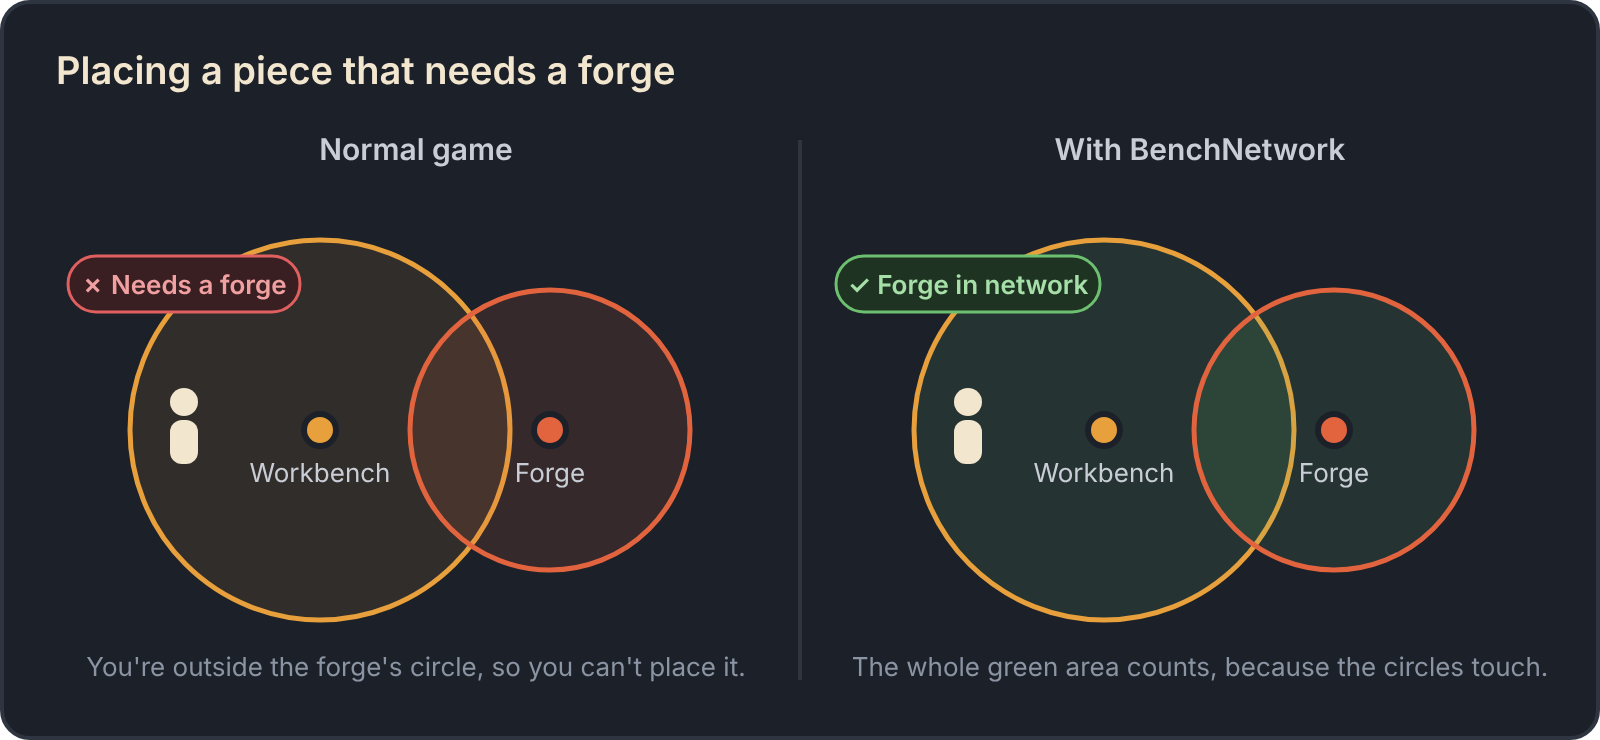
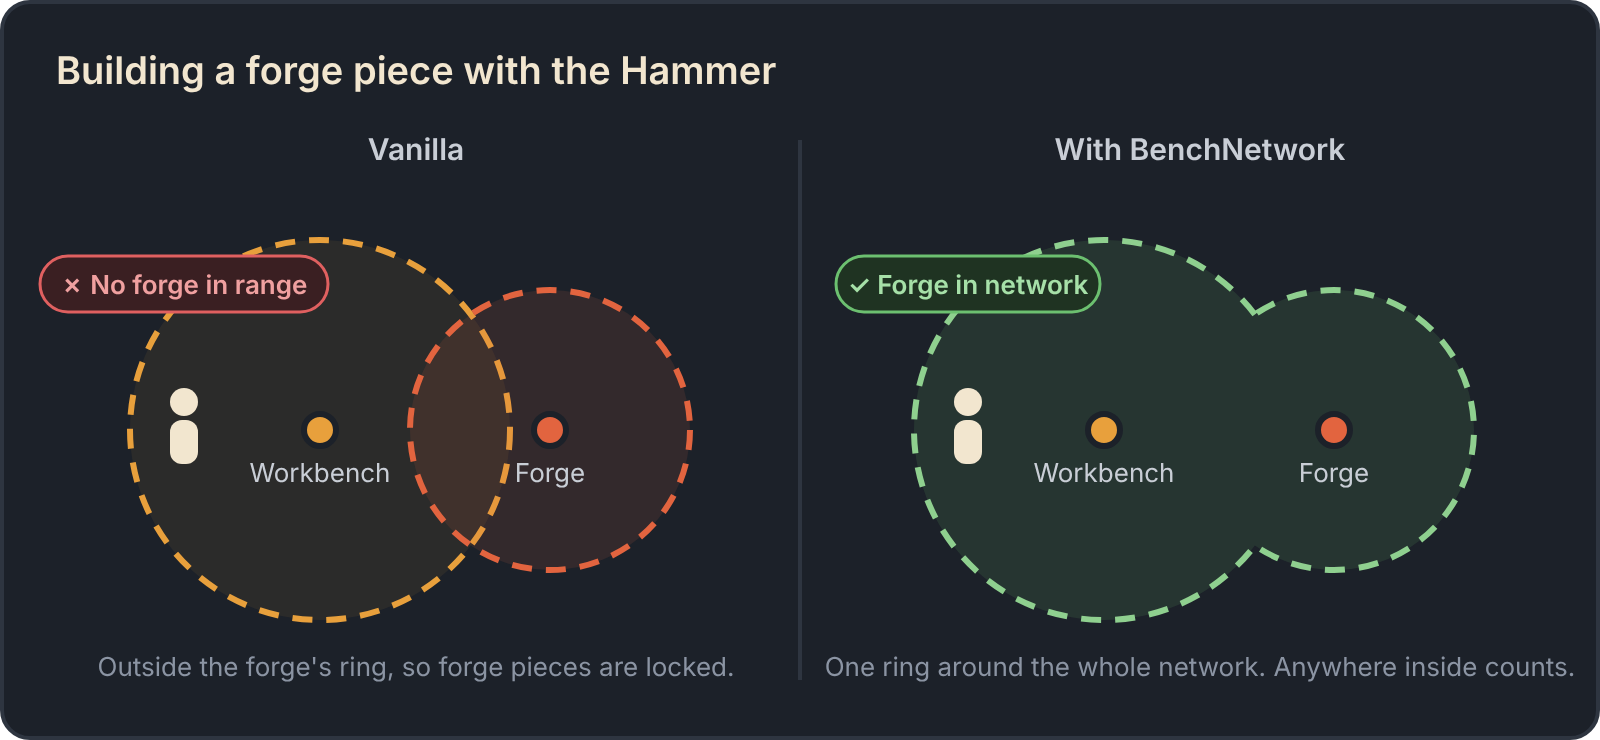
Draft: friendlier README in Valheim's own terms
Rewrites the README player-to-player, using the game's wording (build
radius, Hammer, deconstruct, station level, Repair, spawn protection).
Install now leads with Gale/Hexium; zip and manual install move to a
fold-out. Settings are split into personal and server-controlled, with
the full table folded away. The building diagram now shows the outline
view: one ring around the whole network.

Draft for review; not yet approved for main.

Claude-Session: https://claude.ai/code/session_01RzBXjsieViGYzfu72oKZhi

diff --git a/README.md b/README.md
@@ -4,155 +4,162 @@
 
 <p align="center">
   Link your crafting stations together in Valheim.<br>
-  Build anywhere in your base without putting a spare forge in every corner.
+  Stop carrying a forge to every corner of your longhouse.
 </p>
 
-<p align="center"><a href="https://github.com/m0zzy/Bench-Network/releases/latest"><b>Download the latest release</b></a></p>
+<p align="center">
+  <a href="https://valheim.hexium.gg/mods/M0zzy/BenchNetwork"><b>Get it on Hexium</b></a> ·
+  <a href="https://github.com/m0zzy/Bench-Network/releases/latest">GitHub releases</a>
+</p>
 
 ---
 
 ## What it does
 
-Normally every crafting station has a circle around it, and you can only build a piece while you stand inside
-the circle of the station that piece needs. Big bases end up with extra forges and stonecutters dotted around
-just to keep building.
+In vanilla, every crafting station has a build radius: the glowing ring you see when you hold the Hammer near
+it. To build a forge piece, you have to stand inside the forge's ring. Big bases end up with a spare forge and
+stonecutter tucked into every corner just so you can keep building.
 
-With BenchNetwork, stations work together. When two stations' circles touch, they **link**. Linked stations
-form a **network**, and a network can grow as big as you like: each station only has to touch one other
-station in it.
+BenchNetwork lets your stations work together. When two stations' rings overlap, they **link** into a
+**network**. Chain as many as you like: each station only has to touch one other station in the network.
 
-![Three stations in a chain form one network; a station on its own forms its own network](docs/images/linking.png)
+![A workbench, forge and stonecutter in a chain form one network; a workbench on its own is a separate network](docs/images/linking.png)
 
-### Build anywhere in the network
+### Build anywhere in your base
 
-Stand inside any circle of a network and you can build as if every station in that network were right next to
-you. The same goes for removing pieces and repairing them with the hammer.
+Stand anywhere inside your network and the Hammer acts as if every station in it were right next to you.
+Building, deconstructing with the middle mouse button, and repairing pieces all work.
 
-![Without the mod you need to stand in the forge's circle; with it, the workbench's circle counts too](docs/images/building.png)
+![In vanilla you have to stand in the forge's ring; with BenchNetwork the whole network counts](docs/images/building.png)
 
-### Repair at any station
+### Repair gear at any station
 
-At any station, you can repair items that belong to another station in the same network. Each station type
-counts at its **best upgrade level** in the network, so a level 7 forge anywhere in the network lets you repair
-forge items at the workbench.
+Back from the swamp with a battered iron mace? Hit **Repair** at your workbench. As long as your forge is in
+the same network and upgraded enough, it works.
 
-![At the workbench you can repair workbench and forge items, but forge recipes still need the forge](docs/images/repair.png)
+Each station type counts at its **highest level** in the network. If one forge has its bellows, anvils and
+grinding wheel, the whole network has that forge level.
 
-### See what's in a network
+![At the workbench you can repair workbench and forge gear, but crafting forge recipes still needs the forge](docs/images/repair.png)
 
-Look at any station to see its network and the best level of each station type in it:
+### See your network
+
+Look at a station to see what it's linked to, with the best level of each station type:
 
 ![Hover text reading: Network: Workbench 5, Forge 7, Stonecutter](docs/images/hover.png)
 
-The line appears only when the station is linked to at least one other station.
-
-### See the whole network while building
-
-While you hold the hammer, the outer edge of the network you're standing in lights up, so you can see exactly
-where you can build. Press **F7** to turn this on or off at any time; the game confirms with a message in the
-top left. You can change the key in the settings, and switch to showing every station's full circle instead.
+Equip the Hammer and the outer edge of the network you're standing in lights up, so you can see exactly where
+you can build. Press **F7** to turn this on or off whenever you like.
 
 ## What's shared and what isn't
 
-| | Shared through the network |
+| | Shared across the network? |
 | --- | :---: |
-| Building pieces | ✅ |
-| Removing pieces | ✅ |
-| Repairing pieces with the hammer | ✅ |
-| Repairing items at a station | ✅ if the network's station is upgraded enough |
+| Building with the Hammer | ✅ |
+| Deconstructing pieces | ✅ |
+| Repairing pieces with the Hammer | ✅ |
+| Repairing gear at a station | ✅ if the network's station is a high enough level |
 | Crafting | ❌ go to the real station |
-| The area around your base where enemies can't spawn | ❌ unchanged |
-| Upgrade placement, roof and fire requirements | ❌ unchanged |
+| Spawn protection around your base | ❌ unchanged |
+| Upgrade placement and station roof rules | ❌ unchanged |
 
 ## Installing
 
-### With Gale
+**With Gale:** search for **BenchNetwork**, click **Install**, and start Valheim from Gale. Gale installs
+BepInEx and Jotunn for you.
 
-1. Download `BenchNetwork-<version>.zip` from the
-   [latest release](https://github.com/m0zzy/Bench-Network/releases/latest). Don't unzip it.
-2. In Gale, open your Valheim profile and choose **Import → Local mod**, then pick the zip.
-   Gale adds BepInEx and Jotunn for you if you don't have them.
-3. Start Valheim from Gale.
-
-r2modman works the same way through its **Import local mod** option.
+r2modman works the same way.
 
 <details>
-<summary>Installing by hand</summary>
+<summary>Installing from a zip, or by hand</summary>
 
-1. Install [BepInExPack Valheim](https://thunderstore.io/c/valheim/p/denikson/BepInExPack_Valheim/) and
-   [Jotunn](https://thunderstore.io/c/valheim/p/ValheimModding/Jotunn/).
-2. Unzip the release and copy `BenchNetwork.dll` into `BepInEx/plugins/BenchNetwork/` in your Valheim folder.
+**From a zip:** download `BenchNetwork-<version>.zip` from the
+[latest GitHub release](https://github.com/m0zzy/Bench-Network/releases/latest). Don't unzip it. In Gale, open
+your profile and choose **Import → Local mod**, then pick the zip.
+
+**By hand:** install [BepInExPack Valheim](https://thunderstore.io/c/valheim/p/denikson/BepInExPack_Valheim/)
+and [Jotunn](https://thunderstore.io/c/valheim/p/ValheimModding/Jotunn/), unzip the release, and copy
+`BenchNetwork.dll` into `BepInEx/plugins/BenchNetwork/` in your Valheim folder.
 
 </details>
 
 ### Playing with friends
 
-- **Everyone needs it**, including the server, and everyone needs the **same version**. If versions don't
-  match, the game tells you when you join and won't connect. Update everyone to the same release.
-- **Dedicated servers** need BepInEx, Jotunn and BenchNetwork installed, the same as players.
+- **Everyone needs it**, including the server, and everyone needs the **same version**. If yours doesn't match,
+  the game tells you when you join and won't let you in.
+- **Dedicated servers** need BepInEx, Jotunn and BenchNetwork, same as players.
 - **Single player** just works.
 
 ## Settings
 
-Most people don't need to change anything. Out of the box everything is on and every station keeps its normal
-range.
+You don't need to change anything. Out of the box everything is on and every station keeps its vanilla build
+radius.
 
-To change settings, open the in-game config menu (F1, with
-[ConfigurationManager](https://thunderstore.io/c/valheim/p/Azumatt/Official_BepInEx_ConfigurationManager/)
-installed), or edit `BepInEx/config/m0zzy.BenchNetwork.cfg`.
+Open the in-game config menu with **F1** (needs
+[ConfigurationManager](https://thunderstore.io/c/valheim/p/Azumatt/Official_BepInEx_ConfigurationManager/)),
+or edit `BepInEx/config/m0zzy.BenchNetwork.cfg`.
 
-**On a server, the server's settings win.** Everything except the last six rows below comes from the server
-and is locked for players. Only server admins can change it.
+**Yours to change, even on a server:**
 
-| Setting | Default | What it does |
-| --- | --- | --- |
-| Enabled | On | Turns the whole mod off. Everything goes back to the normal game. |
-| Link building | On | Build, remove and hammer-repair anywhere in a network. |
-| Link repair | On | Repair items from other stations in the network. |
-| *Station* range | `-1` | How far the station's circle reaches. `-1` keeps the normal range. Bigger circles link more easily. |
-| *Station* range per level | `-1` | Extra reach for each upgrade. `-1` keeps the normal amount. |
-| Extra stations | Empty | Stations from other mods that should join networks. See below. |
-| Show network in hover text | On | Shows the network line when you look at a station. |
-| Show network while building | On | Lights up the network's circles while you hold the hammer. |
-| Toggle network circles key | F7 | Key that turns the setting above on or off in game. |
-| Network circle style | Outline | `Outline` shows only the network's outer edge; `AllCircles` shows every station's full circle. |
-| Network refresh interval | `2` | How often, in seconds, networks are re-checked while you hold the hammer. Best left alone. |
-| Debug logging | Off | Writes extra detail to the log file. Turn on when reporting a problem. |
+- **Show network while building** and the **F7** key that toggles it.
+- **Network circle style:** `Outline` shows just the network's edge; `AllCircles` shows every station's ring.
+- **Show network in hover text:** the "Network:" line when you look at a station.
 
-There are range settings for the **Workbench, Forge, Stonecutter, Artisan table, Black forge** and
-**Galdr table**. When you change a range, the circle you see around the station grows or shrinks to match.
+**Set by the server** (or by you in single player):
+
+- **Build radius per station.** Want bigger rings so stations link from further apart? Each station has a
+  *range* and a *range per level*. Leave them at `-1` to keep vanilla.
+- **Link building** and **Link repair** switch each half of the mod on or off, and **Enabled** turns the
+  whole thing off.
 
 <details>
-<summary>Adding stations from other mods</summary>
+<summary>All settings</summary>
 
-Add each station's internal name, separated by commas, for example `$piece_mystation`. To give it its own
-range, add the range and the range per level after colons: `$piece_mystation:30:4` means a 30 m circle that
-grows 4 m per upgrade. The internal name comes from that mod; its author or its files will have it.
+On a server, only the server's admins can change the settings marked *server*.
+
+| Setting | Default | Who sets it | What it does |
+| --- | --- | --- | --- |
+| Enabled | On | server | Turns the whole mod off. Everything goes back to vanilla. |
+| Link building | On | server | Build, deconstruct and repair pieces anywhere in a network. |
+| Link repair | On | server | Repair gear from other stations in the network. |
+| *Station* range | `-1` | server | Build radius at level 1. `-1` keeps vanilla. |
+| *Station* range per level | `-1` | server | Extra radius for each station level. `-1` keeps vanilla. |
+| Extra stations | Empty | server | Crafting stations from other mods that should join networks. See below. |
+| Show network in hover text | On | you | The "Network:" line when you look at a station. |
+| Show network while building | On | you | Lights up the network while you hold the Hammer. |
+| Toggle network circles key | F7 | you | Turns the setting above on or off in game. |
+| Network circle style | Outline | you | `Outline` or `AllCircles`. |
+| Network refresh interval | `2` | you | How often, in seconds, networks are re-checked while you hold the Hammer. Best left alone. |
+| Debug logging | Off | you | Writes extra detail to the log. Turn on when reporting a problem. |
+
+There are range settings for the **Workbench, Forge, Stonecutter, Artisan table, Black forge** and
+**Galdr table**. Change one and the ring around that station grows or shrinks to match.
+
+**Crafting stations from other mods:** add each station's internal name to *Extra stations*, separated by
+commas, for example `$piece_mystation`. To give it its own radius, add the range and the range per level
+after colons: `$piece_mystation:30:4` is a 30 m ring that grows 4 m per level. The mod's author or its files
+will have the internal name.
 
 </details>
 
 ## Good to know
 
-- **Only nearby stations count.** The game only loads the world around players. If a network stretches far
-  away, the far part may not count until someone is near it.
-- **Safe to remove.** The mod saves nothing into your world. Pieces you built stay where they are. You just
-  need to be near the right stations again to build more.
-- **Can't join a server?** Check that you have the same BenchNetwork version as the server.
+- **Only loaded areas count.** Valheim only loads the world near players, so if your network stretches a long
+  way, the far end may not link up until someone's nearby.
+- **Safe to remove.** Nothing is saved into your world. Everything you built stays put; you just need the right
+  station nearby again to build more.
+- **Can't join a server?** Make sure your BenchNetwork version matches the server's.
 
-## Problems or ideas?
+## Found a bug? Got an idea?
 
-To report a problem, the log file tells us almost everything:
+The log file tells us almost everything, so please include it:
 
-1. **Turn on debug logging.** In the F1 config menu, find BenchNetwork and turn on **Debug logging**. Or set
-   `Debug logging = true` in `BepInEx/config/m0zzy.BenchNetwork.cfg`.
-2. **Make the problem happen again.**
-3. **Optional:** open the console with **F5**, type `benchnetwork` and press Enter while standing where the
-   problem happens. This writes a snapshot of your networks to the log. If F5 does nothing, the game needs the
-   `-console` launch option.
-4. **Quit the game** and find `BepInEx/LogOutput.log` in your Gale profile folder (or your Valheim folder if
-   you installed by hand). The game overwrites this file every time it starts, so copy it before playing again.
-5. [Open an issue](https://github.com/m0zzy/Bench-Network/issues/new/choose), describe what happened, and attach
-   the log.
+1. Turn on **Debug logging** in the F1 menu.
+2. Make the problem happen again. If you can, open the console with **F5** and type `benchnetwork` while
+   standing where it happens. If F5 does nothing, add `-console` to Valheim's launch options.
+3. Quit the game and grab `BepInEx/LogOutput.log` from your Gale profile folder. Valheim overwrites it every
+   time it starts, so copy it before you play again.
+4. [Open an issue](https://github.com/m0zzy/Bench-Network/issues/new/choose) and attach the log.
 
 Ideas are welcome as issues too.
 
@@ -162,7 +169,7 @@ How the mod works, how to build it and how releases are made: [docs/DEVELOPMENT.
 
 ## License
 
-BenchNetwork is free and open source under the [MIT License](LICENSE): you can use, change and share it,
+BenchNetwork is free and open source under the [MIT License](LICENSE). Use it, change it and share it,
 including in modpacks, as long as the license notice stays with it.
 
 BenchNetwork is a fan-made mod and isn't affiliated with or endorsed by Iron Gate or Coffee Stain. Valheim is
